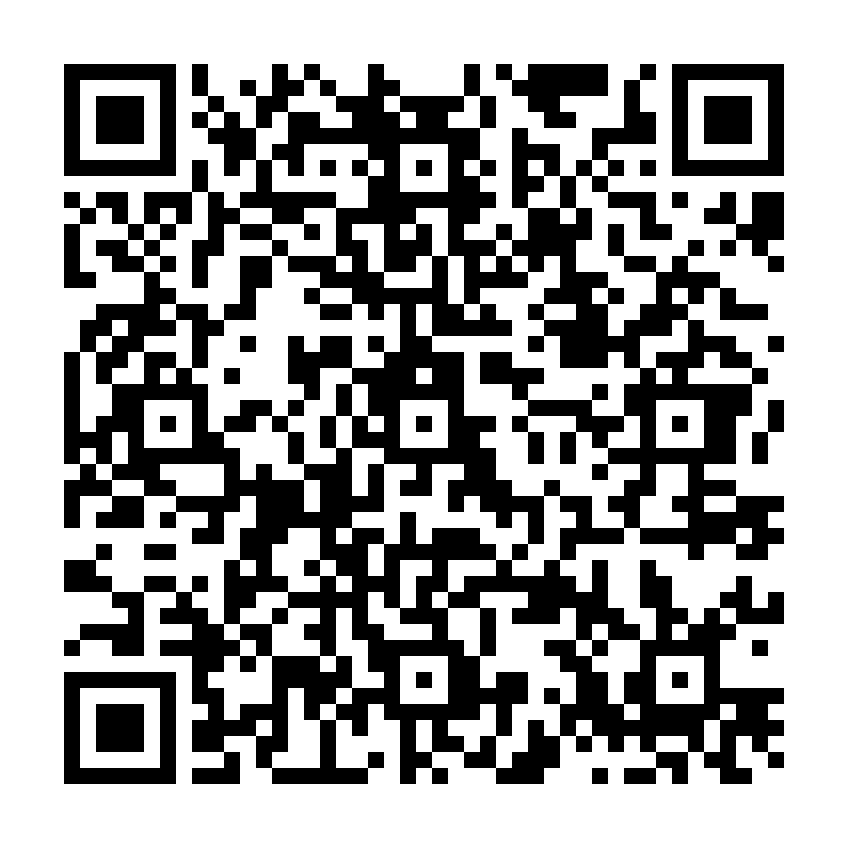
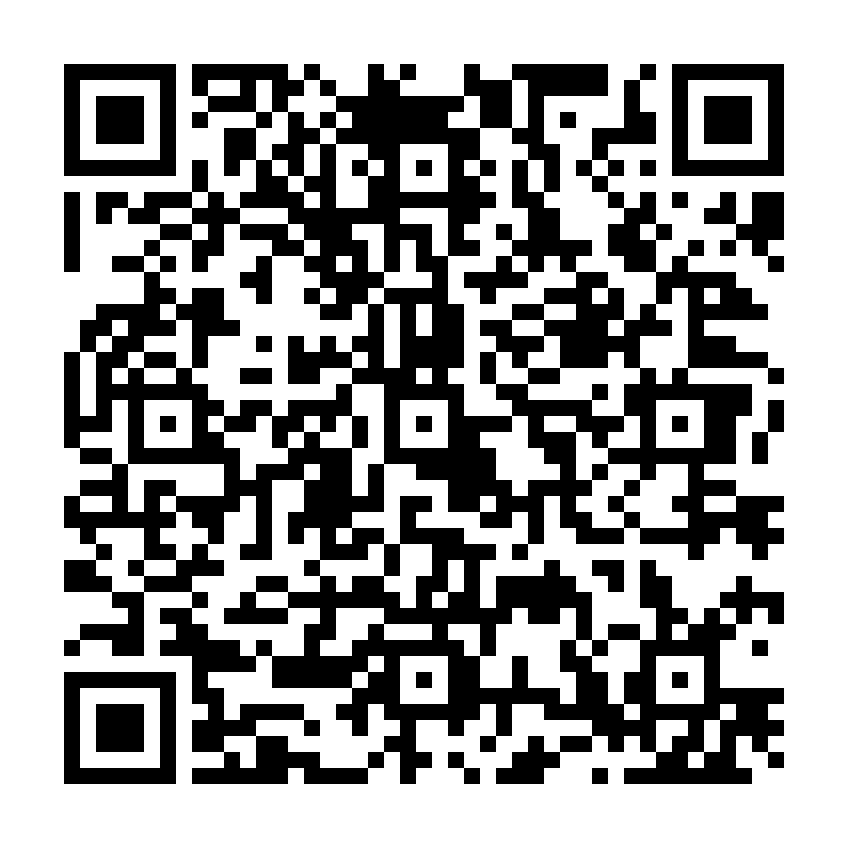
updata 3.19

diff --git a/index.html b/index.html
@@ -2,6 +2,6 @@
 <body>
 
 <h1 align="center"><font face="Bookman Old Style">Signals and Systems</font></h1>
-<p align=center><img src="2019.3.15_01.jpg" width="40%"></p>
+<p align=center><img src="2019.3.19_01.jpg" width="40%"></p>
 </body>
 </html>
